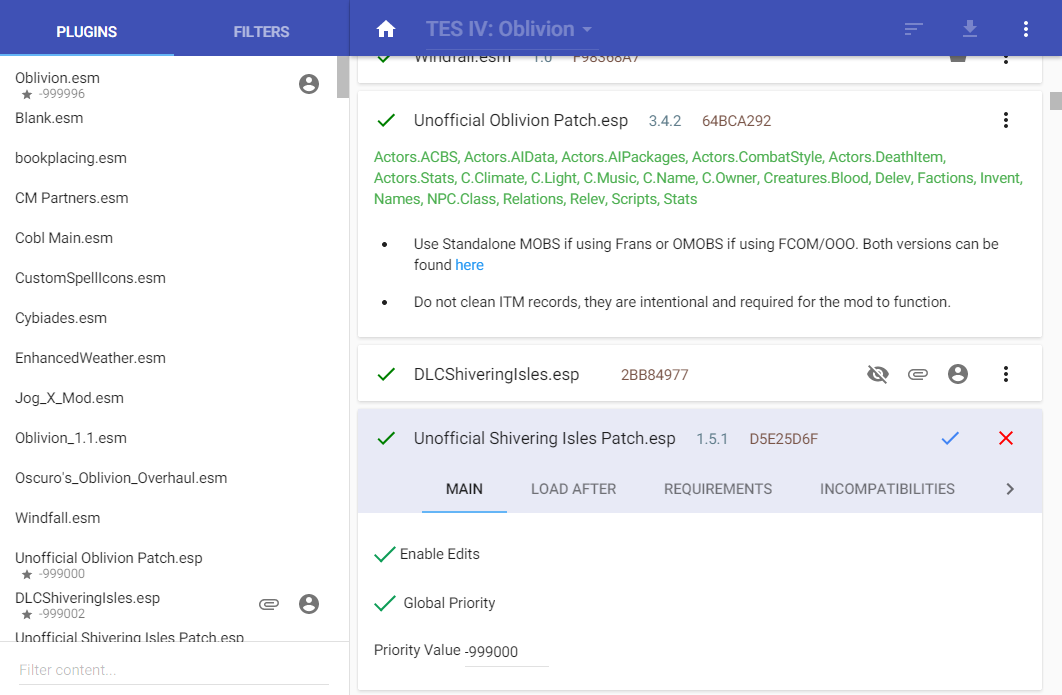
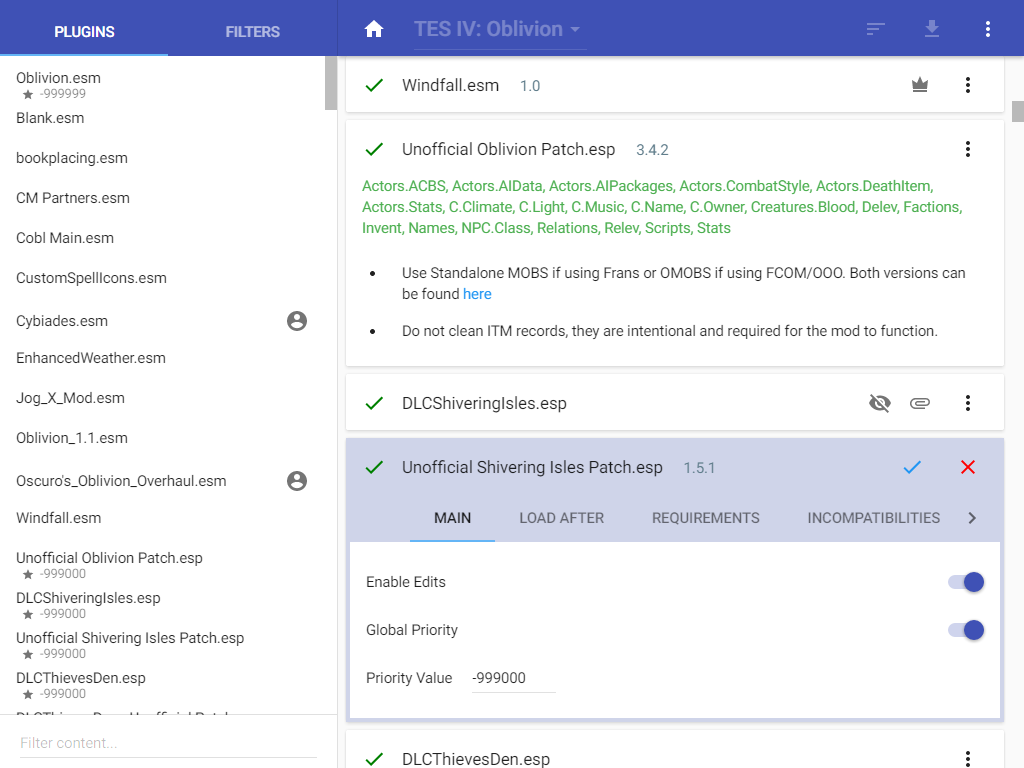
Updated dev docs.

diff --git a/docs/dev/LOOT Readme.html b/docs/dev/LOOT Readme.html
@@ -103,7 +103,6 @@ a:hover {
 /* Tables */
 table {
     border-collapse: collapse;
-    width: 100%;
     background-color: #E8EAF6;
 }
 table td, table th {
@@ -239,7 +238,7 @@ var {
 
 <p>When LOOT is run, it will attempt to detect which of the supported games are installed. If a <a href="#settingsDefaultGame">default game</a> has been set, LOOT will run for it, otherwise it will run for the same game as it last ran for. If the relevant game cannot be detected, or if there is no record of the last game LOOT ran for, it will run for the first detected game.
 
-<p>LOOT can also be launched with the <code>LOOT.exe [--game=&lt;game folder name&gt;]</code> command line parameter to set the game to run for. If the supplied game folder name is valid, the default and last game values are ignored. The default folder names are <code>Oblivion</code>, <code>Skyrim</code>, <code>Fallout3</code> and <code>FalloutNV</code>.
+<p>LOOT can also be launched with the <code>--game=&lt;game folder name&gt;</code> command line parameter to set the game to run for. If the supplied game folder name is valid, the default and last game values are ignored. The default folder names are <code>Oblivion</code>, <code>Skyrim</code>, <code>Fallout3</code> and <code>FalloutNV</code>.
 
 <p>If LOOT cannot detect any supported game installs, it will immediately open the <a href="#usage-settings">Settings dialog</a>. There you can edit LOOT's settings to provide a path to a supported game, after which you can select it from the Game menu.
 
@@ -289,8 +288,8 @@ var {
 
 <figure>
     <div style="width: 100%; overflow-x: auto;">
-        <div class="clipper" style="height: 315px; width: 690px;">
-            <img src="images/main.png" style="position: relative; top: -90px; left: -355px;">
+        <div class="clipper" style="height: 315px; width: 670px;">
+            <img src="images/main.png" style="position: relative; top: -116px; left: -340px;">
         </div>
     </div>
 <figcaption>Examples of plugin cards.</figcaption>
@@ -348,8 +347,8 @@ var {
 
 <figure>
     <div style="width: 100%; overflow-x: auto;">
-        <div class="clipper" style="height: 290px; width: 690px;">
-            <img src="images/main.png" style="position: relative; top: -405px; left: -355px;">
+        <div class="clipper" style="height: 290px; width: 670px;">
+            <img src="images/main.png" style="position: relative; top: -435px; left: -340px;">
         </div>
     </div>
 <figcaption>A metadata editor panel.</figcaption>
@@ -485,6 +484,7 @@ var {
         <li>Finnish: 3ventic
         <li>French: Kaos
         <li>German: lpradel
+        <li>Korean: SteamB23
         <li>Polish: Łukasz Niemczyk
         <li>Russian: Tokc.D.K.
         <li>Spanish: Sharlikran
@@ -538,7 +538,7 @@ A copy of the license is included in the file named "GNU FDL v1.3.txt".</blockqu
 </ul>
 <h4>Additions</h4>
 <ul>
-    <li>Danish translation.
+    <li>Danish and Korean translations.
     <li>If LOOT can't detect any installed games, it now launches to the settings dialog, where the game settings can be edited to allow a game to be detected.
     <li><q>Copy Content</q> menu item to copy the plugin list and all information it contains to the clipboard as YAML-formatted text.
     <li>A <q>Refresh Content</q> item has been added to the main menu, which re-scans plugin headers and updates LOOT's content.

diff --git a/docs/dev/LOOT Metadata Syntax.html b/docs/dev/LOOT Metadata Syntax.html
@@ -103,7 +103,6 @@ a:hover {
 /* Tables */
 table {
     border-collapse: collapse;
-    width: 100%;
     background-color: #E8EAF6;
 }
 table td, table th {
@@ -336,7 +335,7 @@ display: 'OBSE v18+'
         <tr><td><code>str</code><td>&#x2713;<td>The actual message content string.
         <tr><td><code>lang</code><td>&#x2713;<td>The language that <code>str</code> is written in, given as a POSIX language code. The languages LOOT supports are given in <a href="#lang">Language Codes</a>.
 </table>
-<p>LOOT supports formatting of messages using <a href="https://help.github.com/articles/github-flavored-markdown">GitHub Flavored Markdown</a>. Support is provided by the <a href="https://github.com/chjj/marked">Marked</a> library (v0.3.2). Strings that get substituted into messages, such as file display names and dirty info utility strings, also support the same formatting options.
+<p>LOOT supports formatting of messages using <a href="https://help.github.com/articles/github-flavored-markdown">GitHub Flavored Markdown</a>. Support is provided by the <a href="https://github.com/chjj/marked">Marked</a> library (v0.3). Strings that get substituted into messages, such as file display names and dirty info utility strings, also support the same formatting options.
 
 <p>LOOT handles messages and languages as follows:
 <ol>
@@ -582,6 +581,7 @@ msg:
         <tr><td>Spanish<td>es
         <tr><td>German<td>de
         <tr><td>Danish<td>da
+        <tr><td>Korean<td>ko
 </table>
 
 <h2 id="license">License</h2>
@@ -596,7 +596,7 @@ See the file <q>LOOT ReadMe.html</q> for copying conditions.
     <thead>
         <tr><th>Feature<th> LOOT v0.6 and earlier<th>LOOT v0.7
     <tbody>
-        <tr><td>GitHub Flavored Markdown message formatting<td>Only URL hyperlinking is supported, for <code>file:</code>, <code>http:</code> and <code>https:</code> URLs, using the <code>[label](url)</code> and <code>&lt;url&gt;</code> syntaxes.<td>LOOT uses the <a href="https://github.com/chjj/marked">Marked</a> library (v0.3.2) to provide support for most of GitHub Flavored Markdown, minus the GitHub-specific features (like @mentions, issue/repo linking and emoji).
+        <tr><td>GitHub Flavored Markdown message formatting<td>Only URL hyperlinking is supported, for <code>file:</code>, <code>http:</code> and <code>https:</code> URLs, using the <code>[label](url)</code> and <code>&lt;url&gt;</code> syntaxes.<td>LOOT uses the <a href="https://github.com/chjj/marked">Marked</a> library (v0.3) to provide support for most of GitHub Flavored Markdown, minus the GitHub-specific features (like @mentions, issue/repo linking and emoji).
         <tr><td>Message string substitution (ie. <code>sub:</code>)<td>Not supported.<td>Supported.
         <tr><td>YAML merge keys (ie. <code>&lt;&lt;:</code>)<td>Not supported.<td>Supported.
 </table>
